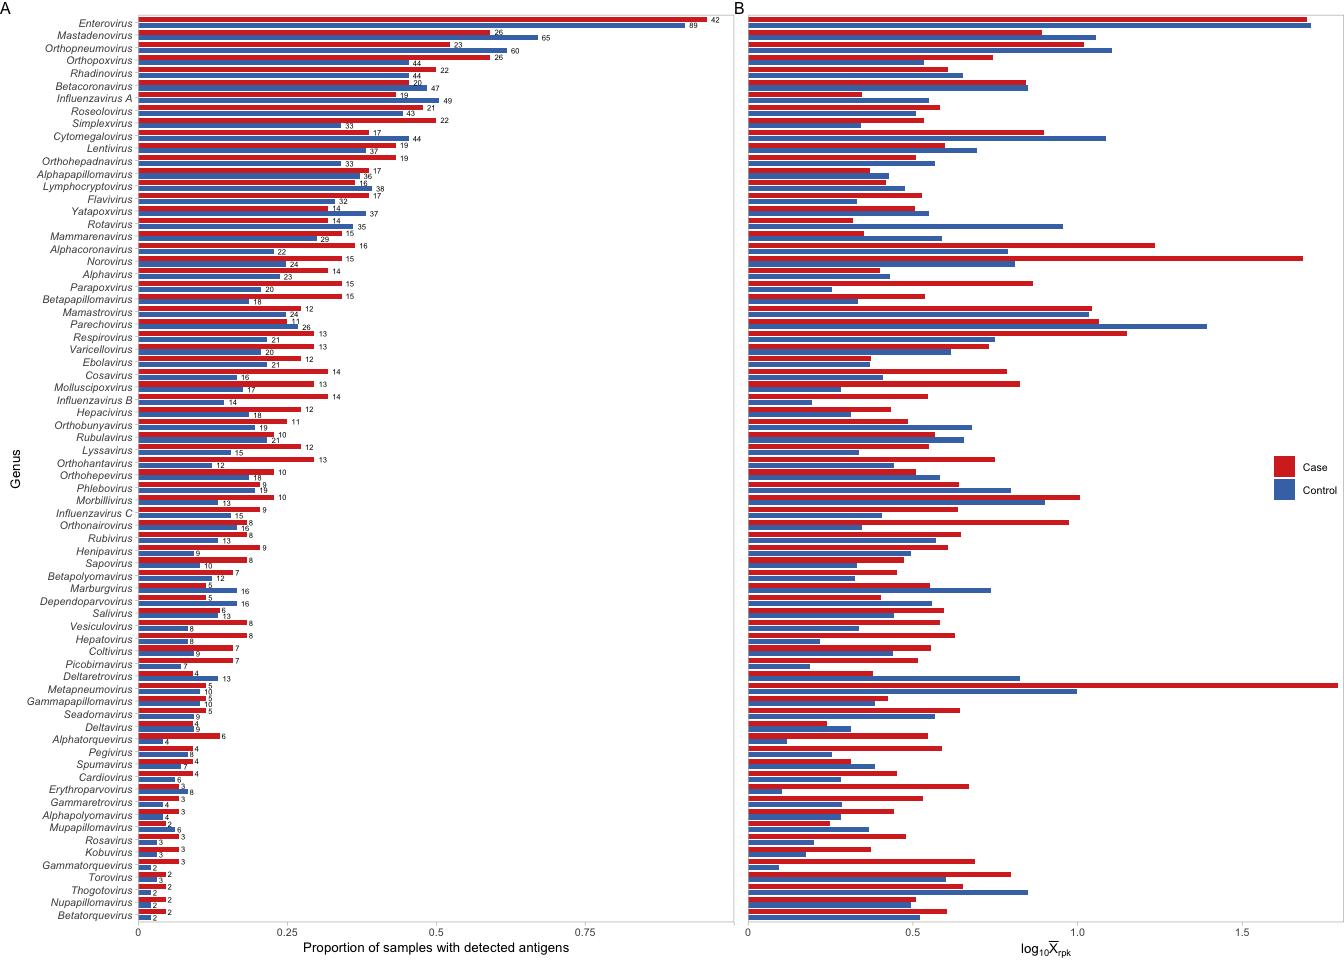
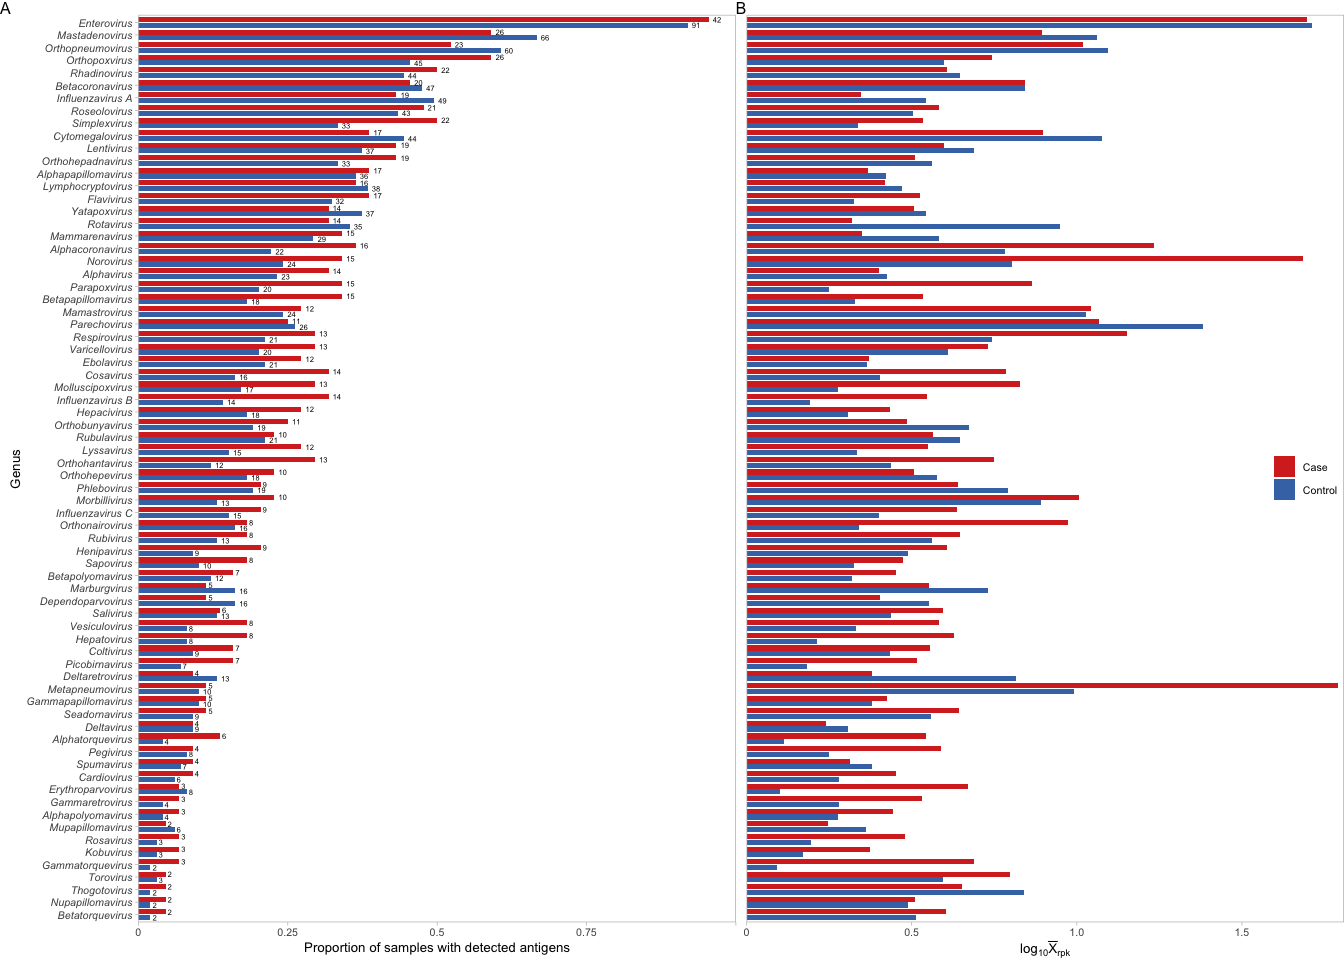
:four_leaf_clover: :beetle: added 2 controls in for ENDIA and fixed plot labels

diff --git a/05_genera_detected_w_antibody_levels.md b/05_genera_detected_w_antibody_levels.md
@@ -9,13 +9,11 @@ library(patchwork)
 ## ENDIA
 
 ``` r
-endia_virscan_metadata <- read_rds("cache/endia_virscan_metadata.rds") %>% 
+endia_virscan_onset <- read_rds("cache/endia_virscan_metadata_w_extra_ctrls.rds") %>% 
+  filter(onset_visit == 1) %>% 
   group_by(sample_id) %>% 
   mutate(rpk = abundance / sum(abundance) * 100000) %>% 
-  ungroup()
-
-endia_virscan_onset <- endia_virscan_metadata %>%
-  filter(onset_visit == 1) %>% 
+  ungroup() %>% 
   drop_na(taxon_genus) 
 ```
 
@@ -126,9 +124,10 @@ endia_combined_rpk_and_samples_genera_plot <- endia_prop_samples_per_genus_plot_
   theme(plot.margin = margin(0, 0, 0, 0),
         panel.grid.minor.x = element_blank(),
         panel.grid.major.x = element_blank(),
-        panel.grid.major.y = element_blank()) 
+        panel.grid.major.y = element_blank()) &
+  plot_annotation(tag_levels = "A")
 
-endia_combined_rpk_and_samples_genera_plot + plot_annotation(tag_levels = "A")
+endia_combined_rpk_and_samples_genera_plot
 ```
 
 ![](05_genera_detected_w_antibody_levels_files/figure-gfm/unnamed-chunk-9-1.png)<!-- -->
@@ -216,9 +215,10 @@ vigr_combined_rpk_and_samples_genera_plot <- vigr_prop_samples_per_genus_plot_cl
   theme(plot.margin = margin(0, 1, 0, 0),
         panel.grid.minor.x = element_blank(),
         panel.grid.major.x = element_blank(),
-        panel.grid.major.y = element_blank()) 
+        panel.grid.major.y = element_blank()) &
+  plot_annotation(tag_levels = "A")
 
-vigr_combined_rpk_and_samples_genera_plot +  plot_annotation(tag_levels = "A")
+vigr_combined_rpk_and_samples_genera_plot 
 ```
 
 ![](05_genera_detected_w_antibody_levels_files/figure-gfm/unnamed-chunk-17-1.png)<!-- -->
